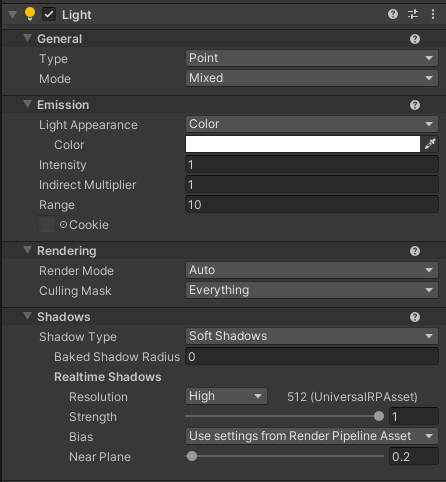
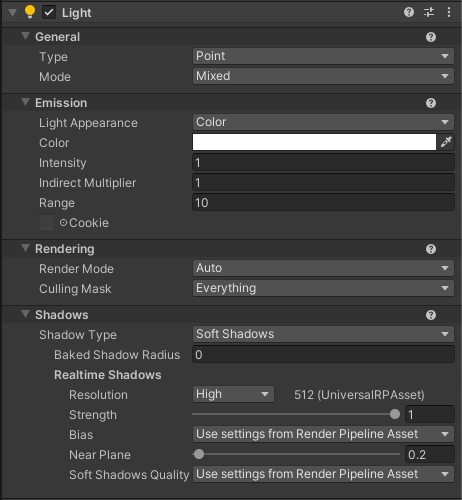
2022.2/graphics/urp/backport/asset soft shadow quality
Backport: Global default option for light soft shadow quality in URP asset. Lights use this by default. It allows to users to override light soft shadow quality from global quality settings. Explicit per light override is still possible.

Changed region(s): [[0.0, 0.0, 1.0, 1.0]]

diff --git a/Runtime/Passes/AdditionalLightsShadowCasterPass.cs b/Runtime/Passes/AdditionalLightsShadowCasterPass.cs
@@ -710,9 +710,7 @@ namespace UnityEngine.Rendering.Universal.Internal
                                     m_GlobalShadowSliceIndexToPerLightShadowSliceIndex.Add(perLightShadowSlice);
                                     var light = shadowLight.light;
                                     float shadowStrength = light.shadowStrength;
-                                    float softShadows = (supportsSoftShadows && light.shadows == LightShadows.Soft) ? 1.0f : 0.0f;
-                                    if (light.TryGetComponent(out UniversalAdditionalLightData additionalLightData))
-                                        softShadows *= 1 + (int)additionalLightData.softShadowQuality;
+                                    float softShadows = ShadowUtils.SoftShadowQualityToShaderProperty(light, (supportsSoftShadows && light.shadows == LightShadows.Soft));
                                     Vector4 shadowParams = new Vector4(shadowStrength, softShadows, LightTypeIdentifierInShadowParams_Spot, perLightFirstShadowSliceIndex);
                                     m_AdditionalLightShadowSliceIndexTo_WorldShadowMatrix[globalShadowSliceIndex] = shadowTransform;
                                     m_AdditionalLightIndexToShadowParams[additionalLightIndex] = shadowParams;
@@ -741,9 +739,7 @@ namespace UnityEngine.Rendering.Universal.Internal
                                     m_GlobalShadowSliceIndexToPerLightShadowSliceIndex.Add(perLightShadowSlice);
                                     var light = shadowLight.light;
                                     float shadowStrength = light.shadowStrength;
-                                    float softShadows = (supportsSoftShadows && light.shadows == LightShadows.Soft) ? 1.0f : 0.0f;
-                                    if (light.TryGetComponent(out UniversalAdditionalLightData additionalLightData))
-                                        softShadows *= 1 + (int)additionalLightData.softShadowQuality;
+                                    float softShadows = ShadowUtils.SoftShadowQualityToShaderProperty(light, (supportsSoftShadows && light.shadows == LightShadows.Soft));
                                     Vector4 shadowParams = new Vector4(shadowStrength, softShadows, LightTypeIdentifierInShadowParams_Point, perLightFirstShadowSliceIndex);
                                     m_AdditionalLightShadowSliceIndexTo_WorldShadowMatrix[globalShadowSliceIndex] = shadowTransform;
                                     m_AdditionalLightIndexToShadowParams[additionalLightIndex] = shadowParams;

diff --git a/Editor/UniversalRenderPipelineAsset/UniversalRenderPipelineAssetUI.Drawers.cs b/Editor/UniversalRenderPipelineAsset/UniversalRenderPipelineAssetUI.Drawers.cs
@@ -1,3 +1,4 @@
+using System;
 using UnityEngine;
 using UnityEngine.Rendering;
 using UnityEngine.Rendering.Universal;
@@ -358,8 +359,32 @@ namespace UnityEditor.Rendering.Universal
             serialized.shadowDepthBiasProp.floatValue = EditorGUILayout.Slider(Styles.shadowDepthBias, serialized.shadowDepthBiasProp.floatValue, 0.0f, UniversalRenderPipeline.maxShadowBias);
             serialized.shadowNormalBiasProp.floatValue = EditorGUILayout.Slider(Styles.shadowNormalBias, serialized.shadowNormalBiasProp.floatValue, 0.0f, UniversalRenderPipeline.maxShadowBias);
             EditorGUILayout.PropertyField(serialized.softShadowsSupportedProp, Styles.supportsSoftShadows);
+            if (serialized.softShadowsSupportedProp.boolValue)
+            {
+                EditorGUI.indentLevel++;
+                    DrawShadowsSoftShadowQuality(serialized, ownerEditor);
+                EditorGUI.indentLevel--;
+            }
 
             EditorGUI.indentLevel--;
+        }
+
+        static void DrawShadowsSoftShadowQuality(SerializedUniversalRenderPipelineAsset serialized, Editor ownerEditor)
+        {
+            int selectedAssetSoftShadowQuality = serialized.softShadowQualityProp.intValue;
+            Rect r = EditorGUILayout.GetControlRect(true);
+            EditorGUI.BeginProperty(r, Styles.softShadowsQuality, serialized.softShadowQualityProp);
+            {
+                using (var checkScope = new EditorGUI.ChangeCheckScope())
+                {
+                    selectedAssetSoftShadowQuality = EditorGUI.IntPopup(r, Styles.softShadowsQuality, selectedAssetSoftShadowQuality, Styles.softShadowsQualityAssetOptions, Styles.softShadowsQualityAssetValues);
+                    if (checkScope.changed)
+                    {
+                        serialized.softShadowQualityProp.intValue = Math.Clamp(selectedAssetSoftShadowQuality, (int)SoftShadowQuality.Low, (int)SoftShadowQuality.High);
+                    }
+                }
+            }
+            EditorGUI.EndProperty();
         }
 
         static void DrawShadowsAdditional(SerializedUniversalRenderPipelineAsset serialized, Editor ownerEditor)

diff --git a/Editor/UniversalRenderPipelineAsset/UniversalRenderPipelineAssetUI.Skin.cs b/Editor/UniversalRenderPipelineAsset/UniversalRenderPipelineAssetUI.Skin.cs
@@ -83,6 +83,15 @@ namespace UnityEditor.Rendering.Universal
             public static GUIContent supportsSoftShadows = EditorGUIUtility.TrTextContent("Soft Shadows", "If enabled pipeline will perform shadow filtering. Otherwise all lights that cast shadows will fallback to perform a single shadow sample.");
             public static GUIContent conservativeEnclosingSphere = EditorGUIUtility.TrTextContent("Conservative Enclosing Sphere", "Enable this option to improve shadow frustum culling and prevent Unity from excessively culling shadows in the corners of the shadow cascades. Disable this option only for compatibility purposes of existing projects created in previous Unity versions.");
 
+            public static GUIContent softShadowsQuality = EditorGUIUtility.TrTextContent("Quality", "Default shadow quality setting for Lights.");
+            public static GUIContent[] softShadowsQualityAssetOptions =
+            {
+                EditorGUIUtility.TrTextContent(nameof(SoftShadowQuality.Low)),
+                EditorGUIUtility.TrTextContent(nameof(SoftShadowQuality.Medium)),
+                EditorGUIUtility.TrTextContent(nameof(SoftShadowQuality.High))
+            };
+            public static int[] softShadowsQualityAssetValues =  { (int)SoftShadowQuality.Low, (int)SoftShadowQuality.Medium, (int)SoftShadowQuality.High };
+
             // Post-processing
             public static GUIContent colorGradingMode = EditorGUIUtility.TrTextContent("Grading Mode", "Defines how color grading will be applied. Operators will react differently depending on the mode.");
             public static GUIContent colorGradingLutSize = EditorGUIUtility.TrTextContent("LUT size", "Sets the size of the internal and external color grading lookup textures (LUTs).");

diff --git a/Runtime/Data/UniversalRenderPipelineAsset.cs b/Runtime/Data/UniversalRenderPipelineAsset.cs
@@ -39,6 +39,12 @@ namespace UnityEngine.Rendering.Universal
     public enum SoftShadowQuality
     {
         /// <summary>
+        /// Use this to choose the setting set on the pipeline asset.
+        /// </summary>
+        [InspectorName("Use settings from Render Pipeline Asset")]
+        UsePipelineSettings,
+
+        /// <summary>
         /// Low quality soft shadows. Recommended for mobile. 4 PCF sample filtering.
         /// </summary>
         Low,
@@ -525,6 +531,7 @@ namespace UnityEngine.Rendering.Universal
         [SerializeField] bool m_SoftShadowsSupported = false;
         [SerializeField] bool m_ConservativeEnclosingSphere = false;
         [SerializeField] int m_NumIterationsEnclosingSphere = 64;
+        [SerializeField] SoftShadowQuality m_SoftShadowQuality = SoftShadowQuality.Medium;
 
         // Light Cookie Settings
         [SerializeField] LightCookieResolution m_AdditionalLightsCookieResolution = LightCookieResolution._2048;
@@ -1373,6 +1380,15 @@ namespace UnityEngine.Rendering.Universal
         {
             get { return m_SoftShadowsSupported; }
             internal set { m_SoftShadowsSupported = value; }
+        }
+
+        /// <summary>
+        /// Light default Soft Shadow Quality.
+        /// </summary>
+        internal SoftShadowQuality softShadowQuality
+        {
+            get { return m_SoftShadowQuality; }
+            set { m_SoftShadowQuality = value; }
         }
 
         /// <summary>

diff --git a/Runtime/UniversalAdditionalLightData.cs b/Runtime/UniversalAdditionalLightData.cs
@@ -60,7 +60,7 @@ namespace UnityEngine.Rendering.Universal
     public class UniversalAdditionalLightData : MonoBehaviour, ISerializationCallbackReceiver, IAdditionalData
     {
         // Version 0 means serialized data before the version field.
-        [SerializeField] int m_Version = 2;
+        [SerializeField] int m_Version = 3;
         internal int version
         {
             get => m_Version;
@@ -215,7 +215,7 @@ namespace UnityEngine.Rendering.Universal
             get => m_SoftShadowQuality;
             set => m_SoftShadowQuality = value;
         }
-        [SerializeField] private SoftShadowQuality m_SoftShadowQuality = SoftShadowQuality.Medium;
+        [SerializeField] private SoftShadowQuality m_SoftShadowQuality = SoftShadowQuality.UsePipelineSettings;
 
         /// <inheritdoc/>
         public void OnBeforeSerialize()
@@ -232,6 +232,13 @@ namespace UnityEngine.Rendering.Universal
                 m_ShadowRenderingLayers = (uint)m_ShadowLayerMask;
 #pragma warning restore 618 // Obsolete warning
                 m_Version = 2;
+            }
+
+            if (m_Version < 3)
+            {
+                // SoftShadowQuality.UsePipelineSettings added at index 0. Bump existing serialized values by 1. e.g. Low(0) -> Low(1).
+                m_SoftShadowQuality = (SoftShadowQuality)(Math.Clamp((int)m_SoftShadowQuality + 1, 0, (int)SoftShadowQuality.High));
+                m_Version = 3;
             }
         }
     }

diff --git a/Editor/UniversalRenderPipelineAsset/SerializedUniversalRenderPipelineAsset.cs b/Editor/UniversalRenderPipelineAsset/SerializedUniversalRenderPipelineAsset.cs
@@ -52,6 +52,7 @@ namespace UnityEditor.Rendering.Universal
         public SerializedProperty shadowDepthBiasProp { get; }
         public SerializedProperty shadowNormalBiasProp { get; }
         public SerializedProperty softShadowsSupportedProp { get; }
+        public SerializedProperty softShadowQualityProp { get; }
         public SerializedProperty conservativeEnclosingSphereProp { get; }
 
         public SerializedProperty srpBatcher { get; }
@@ -125,6 +126,7 @@ namespace UnityEditor.Rendering.Universal
             shadowDepthBiasProp = serializedObject.FindProperty("m_ShadowDepthBias");
             shadowNormalBiasProp = serializedObject.FindProperty("m_ShadowNormalBias");
             softShadowsSupportedProp = serializedObject.FindProperty("m_SoftShadowsSupported");
+            softShadowQualityProp = serializedObject.FindProperty("m_SoftShadowQuality");
             conservativeEnclosingSphereProp = serializedObject.FindProperty("m_ConservativeEnclosingSphere");
 
             srpBatcher = serializedObject.FindProperty("m_UseSRPBatcher");

diff --git a/Runtime/ShadowUtils.cs b/Runtime/ShadowUtils.cs
@@ -527,5 +527,19 @@ namespace UnityEngine.Rendering.Universal
             // Apply texture scale and offset to save a MAD in shader.
             return textureScaleAndBias * worldToShadow;
         }
+
+        internal static float SoftShadowQualityToShaderProperty(Light light, bool softShadowsEnabled)
+        {
+            float softShadows = softShadowsEnabled ? 1.0f : 0.0f;
+            if (light.TryGetComponent(out UniversalAdditionalLightData additionalLightData))
+            {
+                var softShadowQuality = (additionalLightData.softShadowQuality == SoftShadowQuality.UsePipelineSettings)
+                    ? UniversalRenderPipeline.asset?.softShadowQuality
+                    : additionalLightData.softShadowQuality;
+                softShadows *= Math.Max((int)softShadowQuality, (int)SoftShadowQuality.Low);
+            }
+
+            return softShadows;
+        }
     }
 }

diff --git a/Runtime/Passes/MainLightShadowCasterPass.cs b/Runtime/Passes/MainLightShadowCasterPass.cs
@@ -264,9 +264,7 @@ namespace UnityEngine.Rendering.Universal.Internal
             float invShadowAtlasHeight = 1.0f / renderTargetHeight;
             float invHalfShadowAtlasWidth = 0.5f * invShadowAtlasWidth;
             float invHalfShadowAtlasHeight = 0.5f * invShadowAtlasHeight;
-            float softShadowsProp = softShadows ? 1.0f : 0.0f;
-            if (light.TryGetComponent(out UniversalAdditionalLightData additionalLightData))
-                softShadowsProp *= 1 + (int)additionalLightData.softShadowQuality;
+            float softShadowsProp = ShadowUtils.SoftShadowQualityToShaderProperty(light, softShadows);
 
             ShadowUtils.GetScaleAndBiasForLinearDistanceFade(m_MaxShadowDistanceSq, m_CascadeBorder, out float shadowFadeScale, out float shadowFadeBias);
 

diff --git a/Documentation~/universalrp-asset.md b/Documentation~/universalrp-asset.md
@@ -116,7 +116,8 @@ The **Shadows** section has the following properties.
 | &#160;&#160;&#160;&#160;Last&#160;Border | The size of the area where Unity fades out the shadows. Unity starts fading out shadows at the distance **Max Distance**&#160;-&#160;**Last Border**, at **Max Distance** the shadows fade to zero. |
 | **Depth Bias** | Use this setting to reduce [shadow acne](https://docs.unity3d.com/Manual/ShadowPerformance.html). |
 | **Normal Bias** | Use this setting to reduce [shadow acne](https://docs.unity3d.com/Manual/ShadowPerformance.html). |
-| <a name="soft-shadows"></a>__Soft Shadows__ | Select this check box to enable extra processing of the shadow maps to give them a smoother look.<br/>When enabled, Unity uses the following shadow map filtering method:<br/>Desktop platforms: 5x5 tent filter, mobile platforms: 4 tap filter.<br/>**Performance impact**: high.<br/>When this option is disabled, Unity samples the shadow map once with the default hardware filtering. |
+| <a name="soft-shadows"></a>__Soft Shadows__ | Select this check box to enable extra processing of the shadow maps to give them a smoother look.<br/>**Performance impact**: high.<br/>When this option is disabled, Unity samples the shadow map once with the default hardware filtering. |
+| &#160;&#160;&#160;&#160;Quality | Select the quality level of soft shadow processing.<br/>Available options:<br/>**Low**: good balance of quality and performance for mobile platforms. Filtering method: 4 PCF taps.<br/>**Medium**: good balance of quality and performance for desktop platforms. Filtering method: 5x5 tent filter. This is the default value.<br/>**High**: best quality, higher performance impact. Filtering method: 7x7 tent filter. |
 | **Conservative Enclosing Sphere** | Enable this option to improve shadow frustum culling and prevent Unity from excessively culling shadows in the corners of the shadow cascades.<br/>Disable this option only for compatibility purposes of existing projects created in previous Unity versions.<br/>If you enable this option in an existing project, you might need to adjust the shadows cascade distances because the shadow culling enclosing spheres change their size and position.<br/>**Performance impact**: enabling this option is likely to improve performance, because the option minimizes the overlap of shadow cascades, which reduces the number of redundant static shadow casters. |
 
 ### Post-processing

diff --git a/Documentation~/light-component.md b/Documentation~/light-component.md
@@ -64,7 +64,7 @@ The Light Inspector includes the following groups of properties:
 |&nbsp;&nbsp;&nbsp;&nbsp;&nbsp;&nbsp;&nbsp;&nbsp;Depth| Controls the distance at which the shadows will be pushed away from the light. Useful for avoiding false self-shadowing artifacts. This property is visible only when **Bias** is set to **Custom**.|
 |&nbsp;&nbsp;&nbsp;&nbsp;&nbsp;&nbsp;&nbsp;&nbsp;Normal| Controls the distance at which the shadow casting surfaces will be shrunk along the surface normal. Useful for avoiding false self-shadowing artifacts. This property is visible only when **Bias** is set to **Custom**.|
 |&nbsp;&nbsp;&nbsp;&nbsp;&nbsp;&nbsp;&nbsp;&nbsp;Near Plane| Use the slider to control the value for the near clip plane when rendering shadows, defined as a value between 0.1 and 10. This value is clamped to 0.1 units or 1% of the light’s __Range__ property, whichever is lower. This is set to 0.2 by default. |
-|&nbsp;&nbsp;&nbsp;&nbsp;&nbsp;&nbsp;&nbsp;&nbsp;Soft&nbsp;Shadows&nbsp;Quality | Select the soft shadows quality. Options **Low**, **Medium**, and **High** let you specify the soft shadow quality value for this Light. For more information on the values, see the [Soft Shadows](universalrp-asset.md#soft-shadows) section. |
+|&nbsp;&nbsp;&nbsp;&nbsp;&nbsp;&nbsp;&nbsp;&nbsp;Soft&nbsp;Shadows&nbsp;Quality | Select the soft shadows quality. With the **Use Pipeline Settings** option selected Unity uses the value from the URP Asset. Options **Low**, **Medium**, and **High** let you specify the soft shadow quality value for this Light. For more information on the values, see the [Soft Shadows](universalrp-asset.md#soft-shadows) section. |
 
 ## Preset
 When using Preset of Light Component, only a subset of properties are supported. Unsupported properties are hidden.
